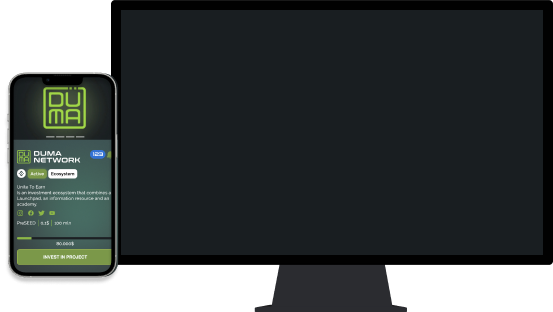
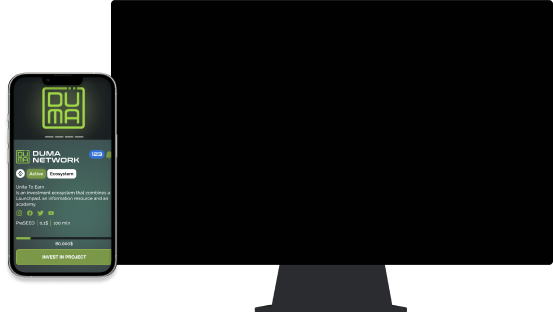
video

diff --git a/src/elements/home/About.js b/src/elements/home/About.js
@@ -120,7 +120,7 @@ const forExport = function ({ className }) {
           </p>
         </div>
         <div class="device">
-          <a>
+          <a href="https://youtu.be/oNQOcFADbNo" target="_blank">
             <img src={images["device"]}></img>
             <video
               autoplay

diff --git a/src/assets/css/main.scss b/src/assets/css/main.scss
@@ -107,7 +107,7 @@ $back in $backAdvance {
   position: relative;
   .device-video{
     position: absolute;
-    top: 0;
+    top: 5px;
     right: 10px;
 
   }
